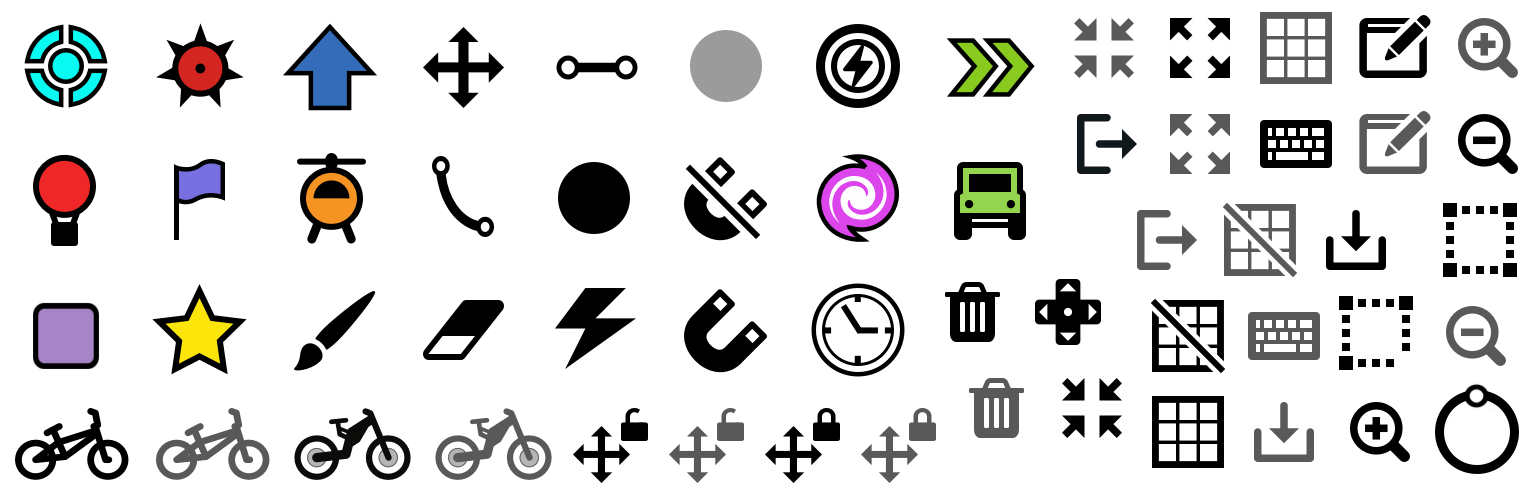
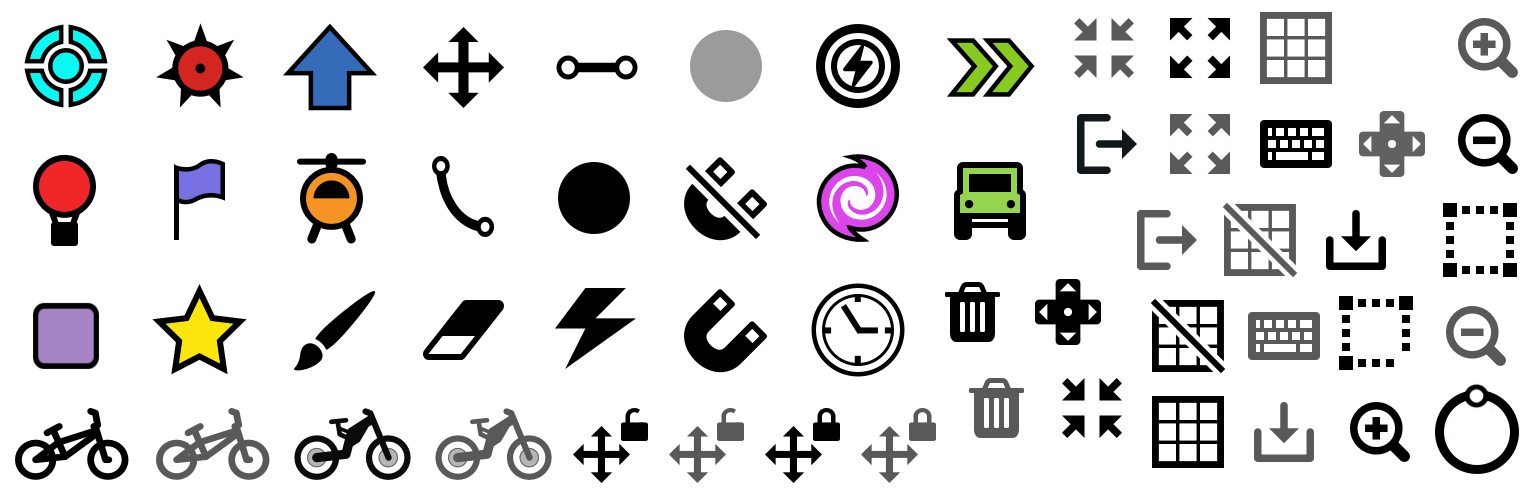
fixed bike toggle and small visual things
fixed bottom toolbar showing "mtb" as initial vehicle, improved spacing

add vehicle powerup to hotkey list

fix weird text spacing in code import box

fix control icon and hover

background color for top bar and code dialog

Changed region(s): [[0.875, 0.2134, 0.9375, 0.3659], [0.875, 0.0305, 0.9375, 0.1829]]

diff --git a/draw/css/app.css b/draw/css/app.css
@@ -1370,13 +1370,13 @@ html.fullscreen #main_page {
 .editorgui_icons-icon_snap {
     width: 44px;
     height: 44px;
-    background-position: -220px -44px
+    background-position: -219px -46px;
 }
 
 .editorgui_icons-icon_snap_on {
     width: 44px;
     height: 44px;
-    background-position: -220px -88px
+    background-position: -219px -90px
 }
 
 .editorgui_icons-icon_camera_lock_off {
@@ -1437,12 +1437,6 @@ html.fullscreen #main_page {
     width: 32px;
     height: 32px;
     background-position: -316px -120px
-}
-
-.editorgui_icons-icon_controls {
-    width: 32px;
-    height: 32px;
-    background-position: -340px -88px
 }
 
 .editorgui_icons-icon_exit_fullscreen:hover {
@@ -1535,10 +1529,16 @@ html.fullscreen #main_page {
     background-position: -448px 0
 }
 
-.editorgui_icons-icon_offline_editor {
+.editorgui_icons-icon_controls {
     width: 32px;
     height: 32px;
     background-position: -448px -32px
+}
+
+.editorgui_icons-icon_controls:hover {
+    width: 32px;
+    height: 32px;
+    background-position: -340px -88px
 }
 
 .editorgui_icons-icon_upload {
@@ -1580,7 +1580,7 @@ html.fullscreen #main_page {
 .topMenu {
     width: 100%;
     height: 45px;
-    background: #FFF;
+    background: #E2E2E2;
     border-bottom: 1px solid #000
 }
 
@@ -1726,17 +1726,16 @@ html.fullscreen #main_page {
     float: right
 }
 
-.bottomMenu-button_ridestyle {
-    min-width: 105px;
-    padding: 0 0px,
+.bottomMenu-button_vehicle {
+    min-width: 135px
 }
 
 .bottomMenu-button_grid {
-    min-width: 105px
+    min-width: 100px
 }
 
 .bottomMenu-button_cameralock {
-    min-width: 150px
+    min-width: 140px
 }
 
 .bottomMenu-button_cameralock>.icon {
@@ -1829,7 +1828,7 @@ html.fullscreen #main_page {
     position: absolute;
     top: 5%;
     background: rgba(0, 0, 0, 0);
-    z-index: 2
+    z-index: 2;
 }
 
 .editorDialog-bike {
@@ -1911,7 +1910,8 @@ html.fullscreen #main_page {
     overflow-y: scroll;
     z-index: 2;
     resize: none;
-    font-size: .9em
+    font-size: .9em;
+    background: #F8F8F8
 }
 
 .editorDialog-codeContainer,

diff --git a/draw/scripts/offlineeditor.js b/draw/scripts/offlineeditor.js
@@ -1018,8 +1018,8 @@
             render: function () {
               var e =
                   "bottomMenu-button bottomMenu-button-right bottomMenu-button_vehicle ",
-                t = "editorgui_icons editorgui_icons-icon_mtb",
-                r = "MTB";
+                t = "editorgui_icons editorgui_icons-icon_bmx",
+                r = "BMX";
               return (
                 this.props.vehicle &&
                   ((r = this.props.vehicle.toLowerCase()),
@@ -2129,6 +2129,14 @@
                                 className: "helpDialog-hotkey-name"
                             }, "Powerups")),
 
+                            n.createElement("div", {
+                              className: "hotkey"
+                          }, n.createElement("span", {
+                              className: "helpDialog-hotkey helpDialog-hotkey_light"
+                          }, "O"), n.createElement("span", {
+                              className: "helpDialog-hotkey-name"
+                          }, "Vehicle Powerups")),
+
                             
 
                             n.createElement("div", {
@@ -2581,7 +2589,7 @@
                 (r = n.createElement(
                   "span",
                   null,
-                  ",or ",
+                  "or ",
                   n.createElement(
                     "span",
                     { className: "link", onClick: this.openFileDialog },
@@ -2595,7 +2603,7 @@
                   ref: "placeholder",
                   "data-ignoredragleave": "true",
                 },
-                "Paste track code, drag and drop text files here ",
+                "Paste track code, drag and drop text files here, ",
                 r,
                 " to import"
               );

diff --git a/draw/scripts/game.js b/draw/scripts/game.js
@@ -9544,7 +9544,7 @@
             this.mainResize();
           }),
           (r.setZoomControlsVisibilty = function (t) {
-            this.zoomControlsContainer.visible = true;
+            this.zoomControlsContainer.visible = t;
           }),
           (r.update = function () {
             var t = this.scene;
@@ -21298,7 +21298,7 @@
         (Mn.oldState = null),
         (Mn.stateDirty = !0),
         (Mn.onStateChange = null),
-        (Mn.vehicle = "MTB"),
+        (Mn.vehicle = "BMX"),
         (Mn.showDialog = !1),
         (Mn.dialogOptions = !1),
         (Mn.importCode = !1),
@@ -22012,7 +22012,7 @@
         (Gn.lineJoin = "round"),
         Gn.stroke(),
         (Gn.lineWidth = 4),
-        (Gn.strokeStyle = "#a1e1f6"),
+        (Gn.strokeStyle = "#1884cf"),
         Gn.stroke();
       const Kn = qn.toDataURL();
       (qn.width = qn.height = 44 * devicePixelRatio),

diff --git a/draw/scripts/settings.js b/draw/scripts/settings.js
@@ -59,6 +59,8 @@ var GameSettings = {
     "visibleUI": true,
     "head": "forward_cap",
     "speed": 0,
+    "gravityX": 0,
+    "gravityY": 0.3,
     "raceColors": ["rgba(57,185,117,1)", "rgba(0,152,189,1)", "rgba(151,95,162,1)", "rgba(253,85,91,1)", "rgba(245,126,64,1)", "rgba(247,212,62,1)", "rgba(170,221,114,1)", "rgba(72,217,207,1)", "rgba(0,124,212,1)", "rgba(226,108,216,1)"],
     "toolHandler": {
         "snap": false,
